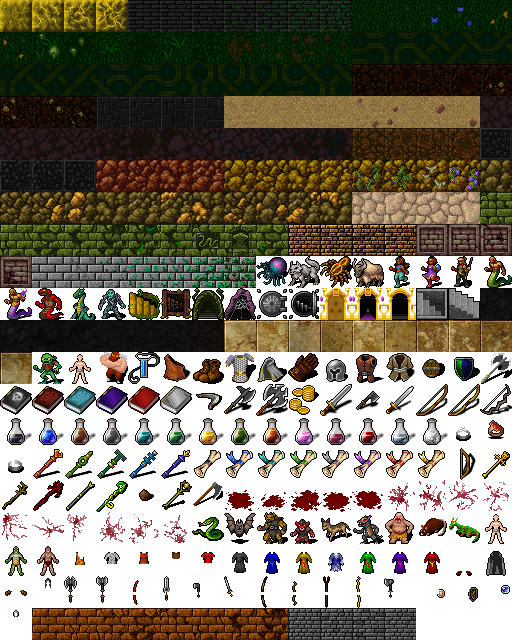
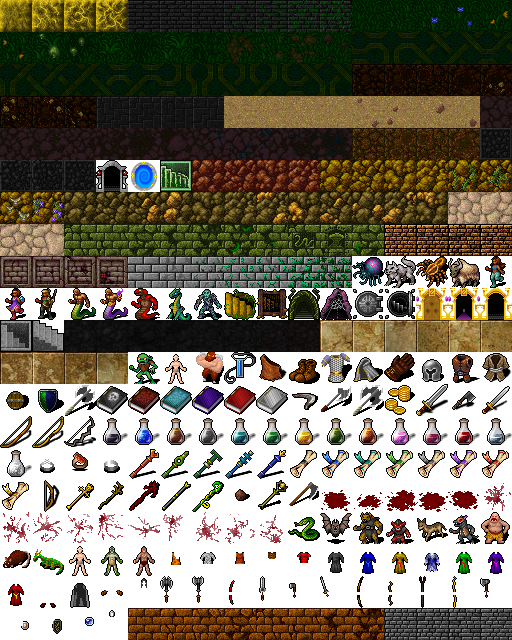
feat: every branch entrance in the main dungeon shows a gateway tile
Temple, Swamp and Shoals entrances, whose own DCSS tiles may not be reused, now stand in with
free library gateways (enter_depths, slimy_stairs_down, portal) instead of plain stairs, and
stand upright in 3D like the others.

diff --git a/src/view/stairTile.ts b/src/view/stairTile.ts
@@ -13,14 +13,24 @@ const SLUG: Readonly<Partial<Record<Branch, string>>> = {
   Vaults: 'vaults',
 };
 
+/**
+ * Branches whose own DCSS entrance is on crawl's unknown-licence list (and missing from the 2010
+ * release): a free gateway from the library that suits the place stands in.
+ */
+const ENTRANCE_STAND_INS: Readonly<Partial<Record<Branch, string>>> = {
+  Temple: 'dcss/dngn/gateways/enter_depths',
+  Swamp: 'dcss/dngn/gateways/slimy_stairs_down',
+  Shoals: 'dcss/dngn/gateways/portal',
+};
+
 /** Zot's gate stays shut, as in DCSS, until the hero carries the runes it asks for. */
 const ZOT_RUNES = 2;
 
 /**
  * The DCSS feature drawn for the stairs at (x, y): plain stone stairs within a branch, the branch's
  * own gateway where a down stair enters another branch, and its exit on the way back up out of it.
- * Gateways whose tiles are on crawl's unknown-licence list are not in the sheet; those fall back to
- * plain stone stairs.
+ * Entrances whose own tiles are not free to reuse use a stand-in (ENTRANCE_STAND_INS); exits whose
+ * tiles are missing fall back to plain stone stairs.
  */
 export function stairTile(w: World, x: number, y: number, down: boolean): TileName {
   const tile = gatewayTile(w, x, y, down);
@@ -41,11 +51,18 @@ function gatewayTile(w: World, x: number, y: number, down: boolean): string {
   if (!target || target.branch === here?.branch) return 'feat/stone_stairs_down' as TileName;
   if (target.branch === 'Zot') return `dngn/gateways/enter_zot_${w.runes.size >= ZOT_RUNES ? 'open' : 'closed'}` as TileName;
   if (target.branch === 'Vaults') return 'dngn/gateways/enter_vaults_open' as TileName;
+  const standIn = ENTRANCE_STAND_INS[target.branch];
+  if (standIn) return standIn;
   const slug = SLUG[target.branch];
   return (slug ? `dngn/gateways/enter_${slug}` : 'feat/stone_stairs_down') as TileName;
 }
 
+/** True when a stair tile is a branch gateway (an entrance, exit or stand-in) rather than plain stone stairs. */
+export function isGatewayTile(tile: string): boolean {
+  return tile.startsWith('dngn/gateways/') || tile.startsWith('dcss/dngn/gateways/');
+}
+
 /** True when the stairs at (x, y) are a branch gateway rather than plain stone stairs. */
 export function isGateway(w: World, x: number, y: number, down: boolean): boolean {
-  return stairTile(w, x, y, down).startsWith('dngn/gateways/');
+  return isGatewayTile(stairTile(w, x, y, down));
 }

diff --git a/src/view3d/tileGround.ts b/src/view3d/tileGround.ts
@@ -5,7 +5,7 @@ import { cellNoise } from '../sim/rng';
 import type { World } from '../sim/world';
 import type { Atlas } from '../view/atlas';
 import { lookFor, type Look } from '../view/look';
-import { stairTile } from '../view/stairTile';
+import { isGatewayTile, stairTile } from '../view/stairTile';
 import { open, REMEMBERED, updateWaterSight, wallCaps, waterSurface, type GroundView } from './dungeon';
 
 /** Wall blocks stand a little under a cell tall, so the camera sees over them to what is behind. */
@@ -129,10 +129,11 @@ export class TileGround implements GroundView {
         const kind = cellAt(grid, x, y);
         if (kind === Cell.Wall) continue;
         const stair = kind === Cell.StairsDown || kind === Cell.StairsUp ? stairTile(w, x, y, kind === Cell.StairsDown) : undefined;
-        const gate = stair?.startsWith('dngn/gateways/');
+        const down = kind === Cell.StairsDown;
+        const gate = stair !== undefined && isGatewayTile(stair);
         const tile = stair && !gate ? stair : pick(this.look.floor, x, y);
         if (tile) floors.push({ cell: y * grid.w + x, tile });
-        if (stair && gate) (stair.includes('/enter_') ? gates : exits).push({ cell: y * grid.w + x, tile: stair });
+        if (stair && gate) (down ? gates : exits).push({ cell: y * grid.w + x, tile: stair });
       }
     }
     const plane = new THREE.PlaneGeometry(1, 1).rotateX(-Math.PI / 2);

diff --git a/tests/unit/stairTile.test.ts b/tests/unit/stairTile.test.ts
@@ -13,4 +13,15 @@ describe('stair tiles', () => {
     const tiles = w.stairs.filter((s) => s.down).map((s) => stairTile(w, s.x, s.y, true));
     expect(tiles).toContain('dngn/gateways/enter_lair');
   });
+
+  it('stands a free gateway in for entrances whose own tile may not be reused', () => {
+    const downTiles = (seed: number, depth: number): string[] => {
+      const w = makeWorld({ monsters: false, items: false, seed, depth });
+      return w.stairs.filter((s) => s.down).map((s) => stairTile(w, s.x, s.y, true));
+    };
+    expect(downTiles(1, 3)).toContain('dcss/dngn/gateways/enter_depths');
+    // Lair 2 leads on to Swamp or Shoals, depending on the seed.
+    expect(downTiles(1, 102)).toContain('dcss/dngn/gateways/slimy_stairs_down');
+    expect(downTiles(2, 102)).toContain('dcss/dngn/gateways/portal');
+  });
 });

diff --git a/src/view3d/gateways.ts b/src/view3d/gateways.ts
@@ -3,7 +3,7 @@ import { TILE_SIZE, tileRect } from '../data/tiles';
 import { Cell, cellAt } from '../sim/grid';
 import type { World } from '../sim/world';
 import type { Sheet } from '../view/atlas';
-import { stairTile } from '../view/stairTile';
+import { isGatewayTile, stairTile } from '../view/stairTile';
 import { REMEMBERED } from './dungeon';
 
 /**
@@ -37,7 +37,7 @@ export class Gateways {
     this.marks = [];
     for (const s of w.stairs) {
       const tile = stairTile(w, s.x, s.y, s.down);
-      if (!tile.startsWith('dngn/gateways/') || cellAt(w.grid, s.x, s.y) === Cell.Wall) continue;
+      if (!isGatewayTile(tile) || cellAt(w.grid, s.x, s.y) === Cell.Wall) continue;
       const c = document.createElement('canvas');
       c.width = c.height = TILE_SIZE;
       const at = tileRect(tile);

diff --git a/src/data/tiles.gen.ts b/src/data/tiles.gen.ts
@@ -1,7 +1,7 @@
 // Written by tools/packTiles.mjs. Do not edit by hand.
 export const TILE_SIZE = 32;
 export const ATLAS_COLS = 16;
-export const SHEET_VERSION = '86063baae8';
+export const SHEET_VERSION = '21f8a683f3';
 export const TILE_NAMES = [
   'dcss/derived/wall/zot_yellow0',
   'dcss/derived/wall/zot_yellow1',
@@ -86,6 +86,9 @@ export const TILE_NAMES = [
   'dcss/dngn/floor/tomb1',
   'dcss/dngn/floor/tomb2',
   'dcss/dngn/floor/tomb3',
+  'dcss/dngn/gateways/enter_depths',
+  'dcss/dngn/gateways/portal',
+  'dcss/dngn/gateways/slimy_stairs_down',
   'dcss/dngn/wall/lab-rock0',
   'dcss/dngn/wall/lab-rock1',
   'dcss/dngn/wall/lab-rock2',

diff --git a/docs/IMPLEMENTATION_2RUNE.md b/docs/IMPLEMENTATION_2RUNE.md
@@ -204,4 +204,5 @@
 - 브라우저 확인: Claude가 `branches.html`에서 10개 브랜치 3D(1280×800)와 휴대폰 2D(390×844)를 확인했다.
 - 기존 손으로 고른 타일 중 제외 목록에 걸린 15장을 2010 CC0 배포본 그림으로 교체했다(이름 유지). `assets/tiles/SOURCES.json`과 테스트가 출처를 지킨다.
 - 3D 타일 바닥에서 브랜치 **입구**(`enter_*`) 타일은 칸 위에 세워 카메라 쪽으로 22° 기울여 그린다. 출구와 일반 계단은 바닥에 그대로 눕힌다.
+- 사원·늪·해안 입구는 자기 타일이 재사용 불가라 라이브러리의 다른 관문 타일로 대신해, 메인 던전의 모든 브랜치 입구가 관문 타일로 서서 보인다.
 - 실제 휴대폰 플레이는 미검증이다.
